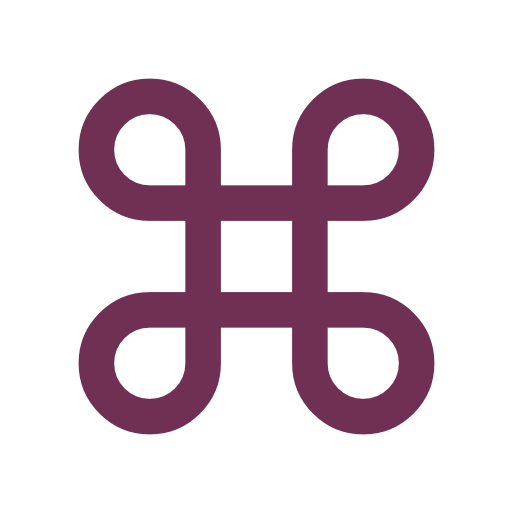
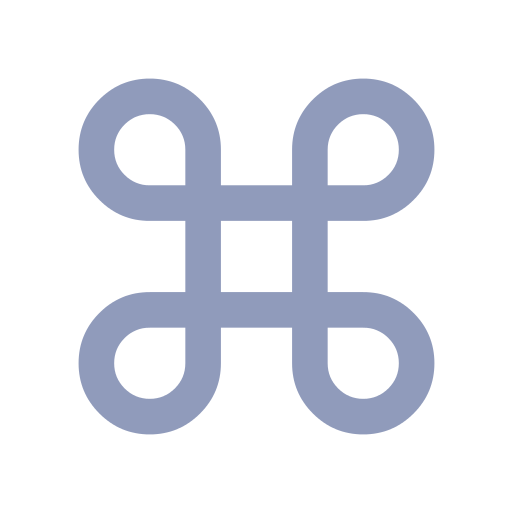
update content for august 2019

Changed region(s): [[0.1562, 0.1562, 0.875, 0.875]]

diff --git a/index.html b/index.html
@@ -52,11 +52,14 @@
         <p>
           I'm a programmer with a background in strategic communications. I like
           working hard so that the user doesn't have to. Right now, I'm a
-          <a href="https://www.linkedin.com/in/elisekain/"
-            >Software Developer</a
+          <a
+            href="https://www.linkedin.com/in/elisekain/"
+            title="Elise Kain on LinkedIn"
+            >Senior Software Engineer</a
           >
-          at Merkle, a digital marketing agency. Other loves include: tea,
-          teamwork, workouts &amp; outside.
+          at
+          <a href="https://everactive.com/" title="Everactive">Everactive</a>.
+          Other loves include: tea, teamwork, workouts &amp; outside.
         </p>
       </section>
 
@@ -132,21 +135,25 @@
         <h2>Skills</h2>
         <ul>
           <li>JavaScript</li>
-          <li>Node.js</li>
-          <li>React</li>
-          <li>HTML</li>
-          <li>CSS</li>
-          <li>Sass</li>
+          <li>Webpack</li>
           <li>Git</li>
-          <li>SQL</li>
-          <li>PostgreSQL</li>
-          <li>SQL Server</li>
-          <li>AWS: S3</li>
+          <li>D3</li>
+          <li>UX Research</li>
+          <li>HTML / CSS</li>
+          <li>Sass</li>
+          <li>Jenkins</li>
+          <li>Jest / Enzyme</li>
+          <li>Design Theory</li>
+          <li>React</li>
+          <li>npm / yarn</li>
+          <li>Docker</li>
           <li>Mocha / Chai</li>
-          <li>Gulp</li>
-          <li>Strategic Communications</li>
-          <li>Project Management</li>
-          <li>Customer Service</li>
+          <li>Wire-framing</li>
+          <li>Node.js</li>
+          <li>ESLint / Prettier</li>
+          <li>Bash</li>
+          <li>SQL</li>
+          <li>AWS: S3</li>
           <li>USGA Rules of Golf</li>
         </ul>
       </section>

diff --git a/sass/main.scss b/sass/main.scss
@@ -1,57 +1,57 @@
 @import url("https://fonts.googleapis.com/css?family=Lato:400,700|Satisfy");
 
-$purple: #703053;
-$lt-purple: #8e5575;
-$blue: #93b7be;
-$grey: #2a2e38;
+$main: #3c4561;
+$secondary: #3c4561;
+$blue: #909bbb;
+$copyText: #2a2e38;
 
 $medium: 900px;
 $small: 600px;
 
 body {
-	font-family: "Lato", sans-serif;
-	color: $grey;
+  font-family: "Lato", sans-serif;
+  color: $copyText;
 
-	main {
-		padding: 1% 5%;
-	}
+  main {
+    padding: 1% 5%;
+  }
 
-	h1,
-	h2 {
-		font-family: "Satisfy", cursive;
-	}
+  h1,
+  h2 {
+    font-family: "Satisfy", cursive;
+  }
 
-	h2 {
-		color: $purple;
-		font-size: 3rem;
-		margin-bottom: 0;
+  h2 {
+    color: $main;
+    font-size: 3rem;
+    margin-bottom: 0;
 
-		@media (max-width: $medium) {
-			font-size: 2rem;
-		}
+    @media (max-width: $medium) {
+      font-size: 2rem;
+    }
 
-		@media (max-width: $small) {
-			font-size: 1.5rem;
-		}
-	}
+    @media (max-width: $small) {
+      font-size: 1.5rem;
+    }
+  }
 
-	a {
-		color: $lt-purple;
-	}
+  a {
+    color: $secondary;
+  }
 
-	p {
-		font-size: 1.25rem;
+  p {
+    font-size: 1.25rem;
 
-		@media (max-width: $medium) {
-			font-size: 1rem;
-		}
-	}
+    @media (max-width: $medium) {
+      font-size: 1rem;
+    }
+  }
 
-	ul {
-		list-style-type: none;
-		text-align: center;
-		padding: 0;
-	}
+  ul {
+    list-style-type: none;
+    text-align: center;
+    padding: 0;
+  }
 }
 
 @import "header";

diff --git a/sass/_header.scss b/sass/_header.scss
@@ -1,24 +1,23 @@
 header {
-	background-image: url("../assets/images/intersection.png");
-	background-repeat: repeat-x;
-	background-color: $lt-purple;
-	background-blend-mode: color-burn;
-	color: white;
-	padding: 1%;
-	border-bottom: 10px solid $blue;
+  background-image: url("../assets/images/intersection.png");
+  background-repeat: repeat-x;
+  background-color: $secondary;
+  background-blend-mode: color-burn;
+  color: white;
+  padding: 1%;
 
-	h1 {
-		font-size: 5rem;
-		margin: 1% 5%;
+  h1 {
+    font-size: 5rem;
+    margin: 1% 5%;
 
-		@media (max-width: $medium) {
-			font-size: 3.5rem;
-			margin: 3%;
-		}
+    @media (max-width: $medium) {
+      font-size: 3.5rem;
+      margin: 3%;
+    }
 
-		@media (max-width: $small) {
-			font-size: 2.5rem;
-			margin: 5%;
-		}
-	}
+    @media (max-width: $small) {
+      font-size: 2.5rem;
+      margin: 5%;
+    }
+  }
 }

diff --git a/sass/_links.scss b/sass/_links.scss
@@ -1,24 +1,24 @@
 #links {
-	li {
-		display: inline-block;
-		width: 24%;
+  li {
+    display: inline-block;
+    width: 24%;
 
-		@media (max-width: $small) {
-			width: 49%;
-			padding-top: 2%;
-			padding-bottom: 2%;
-			margin: 0 auto;
-		}
+    @media (max-width: $small) {
+      width: 49%;
+      padding-top: 2%;
+      padding-bottom: 2%;
+      margin: 0 auto;
+    }
 
-		img {
-			display: block;
-			margin: 10% auto;
-		}
+    img {
+      display: block;
+      margin: 10% auto;
+    }
 
-		a {
-			color: $purple;
-			display: inline-block;
-			padding: 5%;
-		}
-	}
+    a {
+      color: $main;
+      display: inline-block;
+      padding: 5%;
+    }
+  }
 }

diff --git a/sass/_skills.scss b/sass/_skills.scss
@@ -1,18 +1,18 @@
 #skills {
-	ul {
-		display: flex;
-		flex-wrap: wrap;
-	}
+  ul {
+    display: flex;
+    flex-wrap: wrap;
+  }
 
-	li {
-		background-color: $purple;
-		color: white;
-		padding: 1% 3%;
-		margin: 0.5%;
+  li {
+    background-color: $main;
+    color: white;
+    padding: 1% 3%;
+    margin: 0.5%;
 
-		@media (max-width: $small) {
-			padding: 2% 5%;
-			margin: 1%;
-		}
-	}
+    @media (max-width: $small) {
+      padding: 2% 5%;
+      margin: 1%;
+    }
+  }
 }
